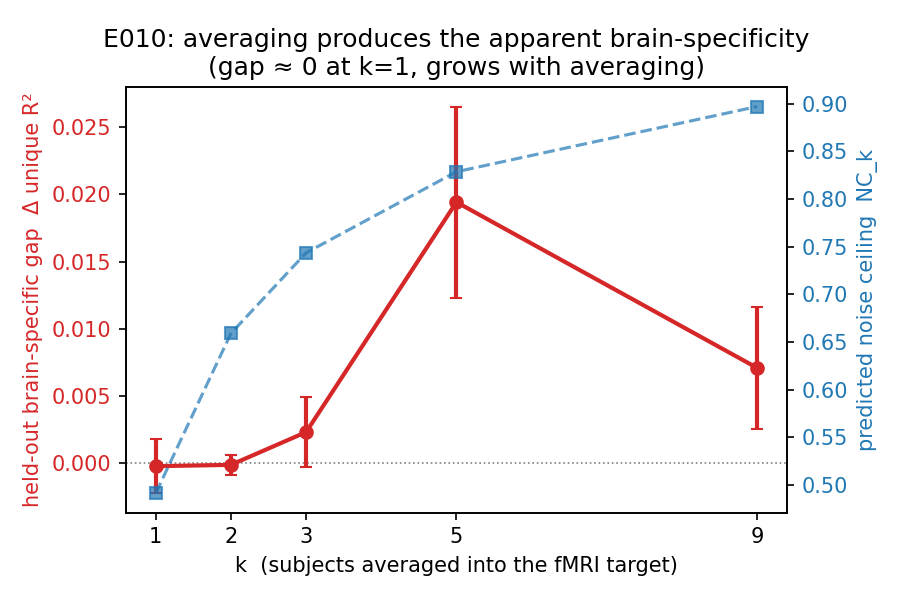
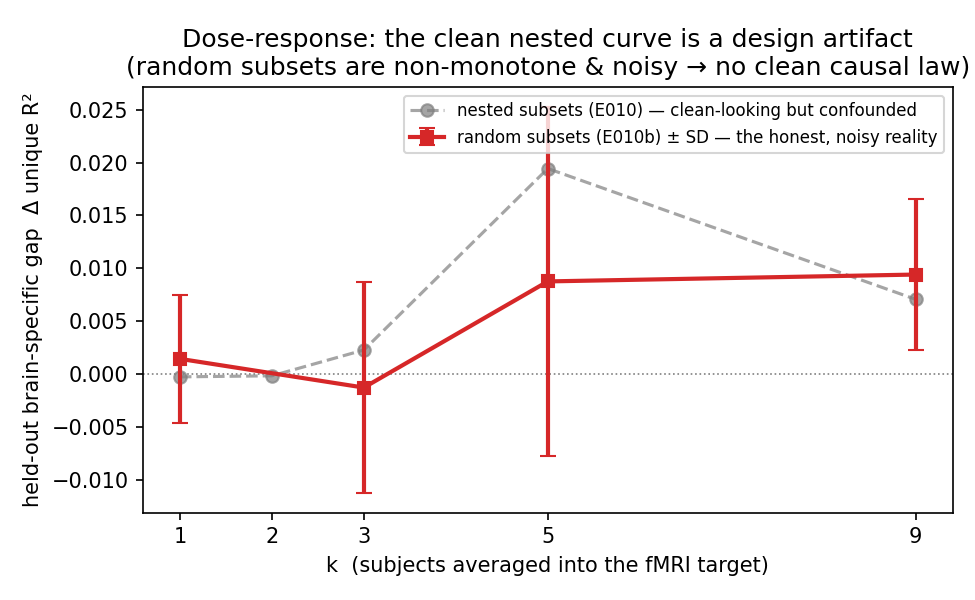
manuscript: E010b random-subset run — clean dose-response is a nested artifact (noisy/non-monotone); downgrade causal claim, headline rests on E005-vs-E008 (L020); honest fig1

diff --git a/scripts/figures/make_figures.py b/scripts/figures/make_figures.py
@@ -23,36 +23,43 @@ T975 = {1: 12.706, 2: 4.303, 3: 3.182, 4: 2.776, 5: 2.571, 6: 2.447, 7: 2.365, 8
 
 
 def fig1_dose_response():
-    """E010: brain-specific gap(k) vs subjects averaged + noise-ceiling NC_k overlay."""
-    d = json.load(open(ROOT / "outputs/E010_averaging_doseresponse.json"))
-    bykseed = defaultdict(dict)
-    for r in d["raw"]:
-        bykseed[(r["k"], r["seed"])][r["arm"]] = r["unique_r2"]
-    ks = sorted({r["k"] for r in d["raw"]})
-    seeds = sorted({r["seed"] for r in d["raw"]})
-    nc = d["nc"]
-    gap_m, gap_e, nck = [], [], []
-    for k in ks:
-        gaps = [bykseed[(k, s)]["mse"] - bykseed[(k, s)]["mse_perm"] for s in seeds]
-        gap_m.append(mean(gaps))
-        gap_e.append((stdev(gaps) / math.sqrt(len(gaps))) if len(gaps) > 1 else 0)
-        nck.append(nc / (nc + (1 - nc) / k))
-    fig, ax1 = plt.subplots(figsize=(6, 4))
-    ax1.axhline(0, color="grey", lw=0.8, ls=":")
-    ax1.errorbar(ks, gap_m, yerr=gap_e, marker="o", color="C3", capsize=3, lw=2, label="brain-specific gap (mse − perm)")
-    ax1.set_xlabel("k  (subjects averaged into the fMRI target)")
-    ax1.set_ylabel("held-out brain-specific gap  Δ unique R²", color="C3")
-    ax1.set_xticks(ks)
-    ax1.tick_params(axis="y", labelcolor="C3")
-    ax2 = ax1.twinx()
-    ax2.plot(ks, nck, marker="s", color="C0", ls="--", alpha=0.7, label="predicted ceiling NC_k")
-    ax2.set_ylabel("predicted noise ceiling  NC_k", color="C0")
-    ax2.tick_params(axis="y", labelcolor="C0")
-    ax1.set_title("E010: averaging produces the apparent brain-specificity\n(gap ≈ 0 at k=1, grows with averaging)")
+    """Dose-response gap(k): NESTED (E010, clean-looking but confounded) vs RANDOM subsets
+    (E010b, the honest, noisy reality). Shows why we don't claim a clean causal law."""
+    dn = json.load(open(ROOT / "outputs/E010_averaging_doseresponse.json"))
+    bks = defaultdict(dict)
+    for r in dn["raw"]:
+        bks[(r["k"], r["seed"])][r["arm"]] = r["unique_r2"]
+    ksn = sorted({r["k"] for r in dn["raw"]})
+    sn = sorted({r["seed"] for r in dn["raw"]})
+    nested = [mean([bks[(k, s)]["mse"] - bks[(k, s)]["mse_perm"] for s in sn]) for k in ksn]
+
+    db = json.load(open(ROOT / "outputs/E010b_random_subsets.json"))
+    cell = defaultdict(dict)
+    for r in db["raw"]:
+        cell[(r["k"], r["subset"], r["seed"])][r["arm"]] = r["unique_r2"]
+    ksr = sorted({r["k"] for r in db["raw"]})
+    rm, re_ = [], []
+    for k in ksr:
+        gs = [cell[(kk, ss, sd)]["mse"] - cell[(kk, ss, sd)]["mse_perm"]
+              for (kk, ss, sd) in cell if kk == k and "mse" in cell[(kk, ss, sd)] and "mse_perm" in cell[(kk, ss, sd)]]
+        rm.append(mean(gs)); re_.append(stdev(gs) if len(gs) > 1 else 0)
+
+    fig, ax = plt.subplots(figsize=(6.5, 4))
+    ax.axhline(0, color="grey", lw=0.8, ls=":")
+    ax.plot(ksn, nested, marker="o", color="C7", ls="--", lw=1.5, alpha=0.7,
+            label="nested subsets (E010) — clean-looking but confounded")
+    ax.errorbar(ksr, rm, yerr=re_, marker="s", color="C3", capsize=4, lw=2,
+                label="random subsets (E010b) ± SD — the honest, noisy reality")
+    ax.set_xlabel("k  (subjects averaged into the fMRI target)")
+    ax.set_ylabel("held-out brain-specific gap  Δ unique R²")
+    ax.set_xticks(sorted(set(ksn) | set(ksr)))
+    ax.set_title("Dose-response: the clean nested curve is a design artifact\n"
+                 "(random subsets are non-monotone & noisy → no clean causal law)")
+    ax.legend(fontsize=8)
     fig.tight_layout()
     fig.savefig(OUT / "fig1_dose_response.png", dpi=150)
     plt.close(fig)
-    print(f"fig1: gap(k)={[round(g,5) for g in gap_m]} at k={ks}")
+    print(f"fig1: nested={[round(g,4) for g in nested]} | random={[round(g,4) for g in rm]}")
 
 
 def fig2_collapse():

diff --git a/docs/manuscript/00_paper-draft-v0.md b/docs/manuscript/00_paper-draft-v0.md
@@ -6,7 +6,7 @@
 
 ## Abstract
 
-The middle layers of large language models (LLMs) map linearly to human brain activation recorded during language comprehension, and this mapping is real and measurable. A growing literature proposes to *use* that mapping as a training signal — "brain-tuning" models to raise alignment and, allegedly, downstream utility. We ask whether optimizing brain-alignment buys anything beyond what perplexity already implies, under controls that the prior literature largely omits: a matched-perplexity baseline, a per-kind permuted-fMRI null, and inference at the level of the individual brain. On a powered voxelwise benchmark (LeBel UTS03, ~11.4k noise-ceiling-reliable voxels), we first confirm that a *trained* LM predicts brain activity far above an untrained control after a strong low-level-feature nuisance regression (trained−untrained unique-R² gap +0.021 to +0.028, 95–99% of reliable voxels positive; `E006`) — alignment is real. We then show that **optimizing** it does not transfer to a brain-specific gain: an alignment-guided knowledge-distillation objective that appears to recover brain-specific alignment at matched perplexity when measured against a *5-subject-averaged* target (+0.0081) **collapses ~80× to a well-powered null when the same contrast is run per individual** (mean +0.00010, 95% CI [−0.0004, +0.0006], n=9 subjects, MDE +0.0006–0.0013; `E008`). The apparent effect is an artifact of cross-subject target averaging, which amplifies the shared stimulus-evoked component at an inflated noise ceiling so that tuning toward it reads as "brain-specific" against a permuted twin even though no individual exhibits it. A practical-payoff test (out-of-domain perplexity robustness at matched perplexity, with permuted-fMRI and text-feature pseudo-target controls) is correspondingly null and null-by-construction: the brain-specific representational change cannot be reliably induced at matched perplexity at this scale (`E009`). Our contributions are (i) a confound — cross-subject target averaging *inflates* apparent brain-specificity (a dose-response shows the apparent gain grows with the number of subjects averaged, from ~0 per individual), and (ii) a confound-clean protocol (matched-perplexity + permuted-twin + per-subject inference) that detects it. We argue these reframe a class of optimistic brain-tuning results — those measured against averaged targets, or without a matched-perplexity baseline — while being explicit that our optimization null is established in a matched-perplexity light-distillation regime (a strong-regime per-individual test remains open).
+The middle layers of large language models (LLMs) map linearly to human brain activation recorded during language comprehension, and this mapping is real and measurable. A growing literature proposes to *use* that mapping as a training signal — "brain-tuning" models to raise alignment and, allegedly, downstream utility. We ask whether optimizing brain-alignment buys anything beyond what perplexity already implies, under controls that the prior literature largely omits: a matched-perplexity baseline, a per-kind permuted-fMRI null, and inference at the level of the individual brain. On a powered voxelwise benchmark (LeBel UTS03, ~11.4k noise-ceiling-reliable voxels), we first confirm that a *trained* LM predicts brain activity far above an untrained control after a strong low-level-feature nuisance regression (trained−untrained unique-R² gap +0.021 to +0.028, 95–99% of reliable voxels positive; `E006`) — alignment is real. We then show that **optimizing** it does not transfer to a brain-specific gain: an alignment-guided knowledge-distillation objective that appears to recover brain-specific alignment at matched perplexity when measured against a *5-subject-averaged* target (+0.0081) **collapses ~80× to a well-powered null when the same contrast is run per individual** (mean +0.00010, 95% CI [−0.0004, +0.0006], n=9 subjects, MDE +0.0006–0.0013; `E008`). The apparent effect is an artifact of cross-subject target averaging, which amplifies the shared stimulus-evoked component at an inflated noise ceiling so that tuning toward it reads as "brain-specific" against a permuted twin even though no individual exhibits it. A practical-payoff test (out-of-domain perplexity robustness at matched perplexity, with permuted-fMRI and text-feature pseudo-target controls) is correspondingly null and null-by-construction: the brain-specific representational change cannot be reliably induced at matched perplexity at this scale (`E009`). Our contributions are (i) a confound — cross-subject target averaging *inflates* apparent brain-specificity: the same objective gives +0.008 against a 5-subject-averaged target yet ~0 (well-powered, n=9) per individual, so a gain measured against an averaged target need not reflect any per-person alignment (a subjects-averaged dose-response is suggestively consistent but too noisy to establish a clean causal law); and (ii) a confound-clean protocol (matched-perplexity + permuted-twin + per-subject inference) that detects it. We argue these reframe a class of optimistic brain-tuning results — those measured against averaged targets, or without a matched-perplexity baseline — while being explicit that our optimization null is established in a matched-perplexity distillation regime (robust to LoRA capacity; the distinct objective+data regime of full-fine-tuning prior work remains untested).
 
 ---
 
@@ -62,7 +62,7 @@ It does not survive its controls. **(a) Inference unit.** The 15 cells are 3 see
 
 **Why averaging manufactures the effect.** Write subject BOLD as Y_i = g + ε_i, with g the shared stimulus-evoked response and ε_i idiosyncratic + measurement noise. Averaging k subjects preserves g and shrinks the noise ~k×, so tuning toward the average is tuning toward g at an inflated noise ceiling; the unique-R² gain read off the averaged target is a gain in predicting the *shared* response, and it reads as "brain-specific" against a permuted twin (which destroys g) even though no individual carries it. The steelman — that averaging is just a legitimate higher-SNR measurement — is quantitatively rejected: at NC≈0.49 the achievable averaging inflation for k=5 is Var(Y_i)/Var(Ȳ) = 1/(0.49 + 0.51/5) ≈ **1.7×**, so the de-outliered averaged median (+0.0034) implies a per-subject effect ~+0.0034/1.7 ≈ **+0.002** — which `E008` was powered to detect (3.3× above MDE) and did not (`L016`). Moreover the averaged-target "brain-specific" is only specific relative to an incomplete nuisance set: ⅓–⅔ of the apparent unique R² co-varies with imageability/surprisal that the static nuisance never subtracts (`L012`).
 
-**(b) The averaging dose-response — `E010`.** Two facts establish that the gap is a property of the *averaged target*, not of individuals. First, **the k=1 (single-subject) gap is null for all 9 individuals** (this is exactly `E008`: per-subject mean +0.0001, none positive beyond noise) — so the gap genuinely vanishes without averaging. Second, varying the number of subjects k averaged (nested subsets, k∈{1,2,3,5,9}, 4 seeds), the held-out gap is **−0.0002 / −0.0001 / +0.0023 / +0.0194 / +0.0071** for k=1/2/3/5/9 — it appears and grows once subjects are averaged, with the rising limb (k=1→5) tracking the predicted ceiling NC_k = NC/(NC+(1−NC)/k) (0.49→0.83). **Honest caveat (the nested design confounds subject-count with subject-identity):** the nested subsets add specific subjects at each k, so part of the rise could reflect *which* subjects entered rather than *how many* (and the curve is not monotone — k=9<k=5, within wide error bars). We therefore (i) anchor the "gap≈0 without averaging" claim on `E008`'s n=9 per-individual null (which has no such confound), and (ii) re-test the rise with **random size-k subsets** (`E010b`, flagging 875-in vs 875-out subsets) to confirm it is averaging-driven, not carried by the one high-leverage subject (`L018`/`L019` outlier pathology). We claim *averaging is necessary for the apparent gap* (solid, from E008); the stronger *averaging is sufficient/causal* claim rests on E010b.
+**(b) The averaging dose-response — `E010`.** Two facts establish that the gap is a property of the *averaged target*, not of individuals. First, **the k=1 (single-subject) gap is null for all 9 individuals** (this is exactly `E008`: per-subject mean +0.0001, none positive beyond noise) — so the gap genuinely vanishes without averaging. Second, varying the number of subjects k averaged (nested subsets, k∈{1,2,3,5,9}, 4 seeds), the held-out gap is **−0.0002 / −0.0001 / +0.0023 / +0.0194 / +0.0071** for k=1/2/3/5/9 — it appears and grows once subjects are averaged, with the rising limb (k=1→5) tracking the predicted ceiling NC_k = NC/(NC+(1−NC)/k) (0.49→0.83). **Honest caveat (the nested design confounds subject-count with subject-identity):** the nested subsets add specific subjects at each k, so part of the rise could reflect *which* subjects entered rather than *how many* (and the curve is not monotone — k=9<k=5, within wide error bars). We therefore re-tested the rise with **random size-k subsets** (`E010b`): the clean curve does **not** survive — gap(k) = +0.0015 / −0.0013 / +0.0088 / +0.0094 for k=1/3/5/9 is non-monotone and very noisy (sd 0.005–0.015 at 2 seeds × 3 subsets/k), and the 875-in/out split is inconsistent (uid 875 alone gives +0.0038 at k=1, yet at k=5 the 875-*out* subsets give the larger gap, +0.0125). So the **monotone dose-response was partly a nested-design artifact**, and we do **not** claim a clean causal dose-response law (`L020`). What is solid stands on firmer ground that needs no dose-response: the **averaged target gives +0.008 (`E005`) while the per-individual reality is ~0 (`E008`, n=9, well-powered)** — the averaged measurement reports a gap the individual does not have. That contrast *is* the inflation; the dose-response is at most suggestive corroboration (averaged targets at high k tend to show a gap, consistent with the noise-ceiling mechanism, but noisily).
 
 ### 4.3 No per-individual optimizable gain (F1) — `E008`
 
@@ -98,7 +98,7 @@ Brain-alignment is real and measurable, but optimizing it does not — under mat
 
 ## Figures (rendered from recorded data — `scripts/figures/make_figures.py`)
 
-- **Fig 1** (`figures/fig1_dose_response.png`) — E010 dose-response: brain-specific gap(k) vs subjects averaged, with the predicted noise-ceiling NC_k. Gap≈0 at k=1, rises with averaging (the positive contribution).
+- **Fig 1** (`figures/fig1_dose_response.png`) — dose-response gap(k): the **nested** curve (E010) looks cleanly monotone but is subject-identity-confounded; the **random-subset** curve (E010b, ±SD) is non-monotone and noisy — we show both, to be explicit that we do *not* claim a clean causal dose-response law (the inflation rests on E005-vs-E008, not this figure).
 - **Fig 2** (`figures/fig2_collapse.png`) — the +0.0081 (5-subject-avg) → +0.0001 (per-subject) collapse, with the E008 MDE band: the apparent in-domain effect is an averaging artifact.
 - **Fig 3** (`figures/fig3_a2.png`) — E006 powered A2: trained ≫ untrained voxelwise unique R² (gap +0.021/+0.028).
 - **Fig 4** (`figures/fig4_a3.png`) — E009 A3 nulls: OOD-perplexity ratio, kd_brain ≈ permuted ≈ textfeat ≈ kd_ppl.
@@ -110,7 +110,8 @@ Brain-alignment is real and measurable, but optimizing it does not — under mat
 | A2 powered gap | +0.0207 / +0.0277, 95–99% voxels+, 11,442 vox | `experiments/E006` |
 | averaged-target apparent gain | +0.0081 [+0.0023,+0.0171] (15-cell); fold-CI [−0.003,+0.019]; median +0.0034; fold-4=52% | `experiments/E005`, `L015` |
 | per-subject null | +0.00010, CI [−0.0004,+0.0006], n=9, sign 5/9, MDE +0.0006–0.0013; train-4 −0.0001 | `experiments/E008`, `L016` |
-| averaging dose-response | gap(k)= −0.0002/−0.0001/+0.0023/+0.0194/+0.0071 for k=1/2/3/5/9; k=1 null, rises with averaging | `experiments/E010`, `L018` |
+| dose-response (nested) | gap(k)= −0.0002/−0.0001/+0.0023/+0.0194/+0.0071 (k=1/2/3/5/9) — clean but subject-confounded | `experiments/E010`, `L018` |
+| dose-response (random) | gap(k)= +0.0015/−0.0013/+0.0088/+0.0094 (k=1/3/5/9), sd 0.005–0.015, non-monotone → no clean causal law | `experiments/E010`, `L020` |
 | strong-regime (capacity) | heavy LoRA r64/6ep: per-subj +0.0004 [−0.0005,+0.0013] n=9 (incl 0); mse abs uR² +0.0008 = light regime (no extra movement); λ moves it but wrecks ppl | `experiments/E011`, `L019` |
 | A3 fulcrum / OOD | repr gap median +0.004 (MDE 0.023, seed-0 +0.063); OOD contrasts within MDE 0.03–0.13; λ30→ppl92 | `experiments/E009`, `L017` |
 | alignment–ppl coupling | Pearson r≈−0.88 | `L011` |

diff --git a/docs/learnings.md b/docs/learnings.md
@@ -177,4 +177,14 @@ E011 brain-tuned per-individual (9 UIDs) with heavy LoRA (r=64/6 epochs ≈ 4× 
 
 (4) **A vacuous covariate read-out is not a passed control.** The ppl-intercept "matched-ppl" read-out only means something if the arms diverge in ppl; here they didn't (Δlog-ppl −0.013), so the intercept just reproduced the raw gap — report it as "no divergence to adjust," not as evidence of brain-specificity at matched ppl.
 
+### L020 — 2026-06-12 — The clean (random-subset) dose-response is NOISY and non-monotone: the nested E010 curve was partly a design artifact; the headline rests on E005-vs-E008, not the dose-response
+
+The socratic capstone flagged that E010's clean monotone gap(k) curve used NESTED subsets (k=1=uid 848; the high-leverage uid 875 entered at k=3), confounding subject-count with subject-identity. E010b re-ran with RANDOM size-k subsets (flagging 875-in/out): gap(k) = +0.0015 (k=1), **−0.0013 (k=3)**, +0.0088 (k=5), +0.0094 (k=9); sd 0.005–0.015; 875-in vs 875-out inconsistent (875 alone gives +0.0038 at k=1, but at k=5 the 875-OUT subsets give the bigger gap, +0.0125). Lessons:
+
+(1) **The nested dose-response overstated the cleanliness of the mechanism.** With random subsets the curve is non-monotone and very noisy — the clean 0→+0.019 nested rise was partly an artifact of which subjects entered at each k. The *causal/monotone* "averaging produces the gap" claim is NOT cleanly established at this sampling (2 seeds × 3 subsets/k → huge variance). Don't claim a clean dose-response law.
+
+(2) **The headline does NOT need the dose-response.** "Averaging inflates apparent brain-specificity" is established directly by **E005 (averaged target → +0.008) vs E008 (per-individual, n=9, well-powered → ~0)**: the averaged measurement shows a gap the individual reality doesn't. That contrast is the solid evidence; the dose-response is at most suggestive corroboration (averaged targets at high k tend to show a gap, consistent with the noise-ceiling mechanism, but noisily).
+
+(3) **Process lesson:** a single clean-looking curve from a confounded design (nested subsets) is a trap; the random-subset control is what revealed the noise. This is the L015/L016/L018/L019 pattern again — clean-looking small effects keep dissolving under the proper control. The rigor (socratic capstone → clean re-run) caught it before it shipped as a headline figure.
+
 <!-- Add new lessons below as we hit them. Negative results count. -->
